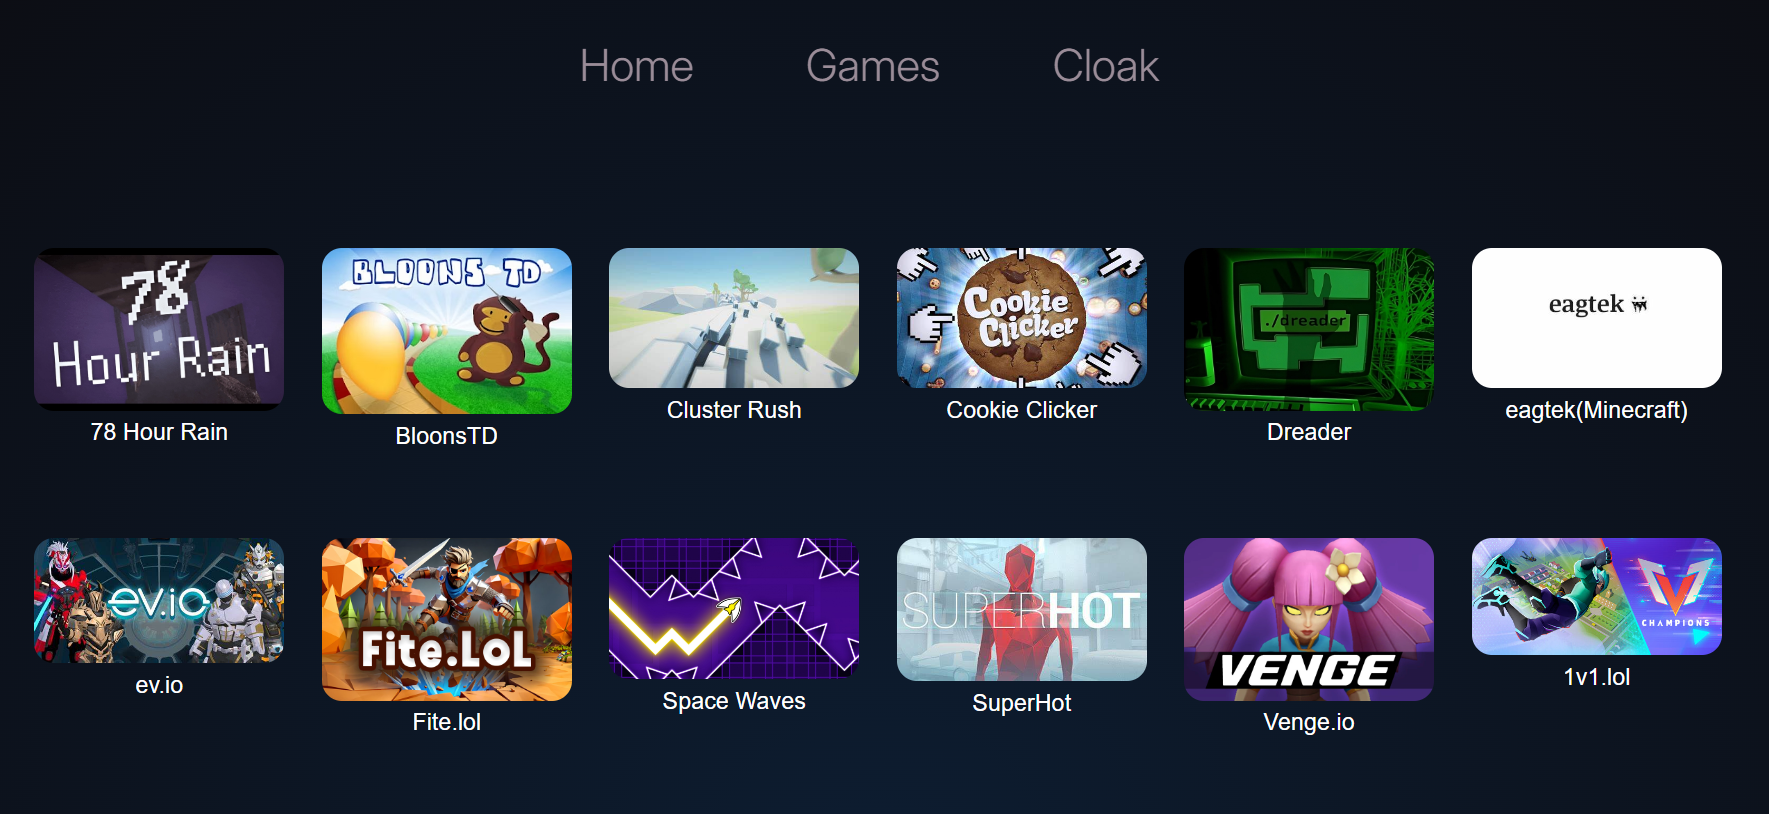
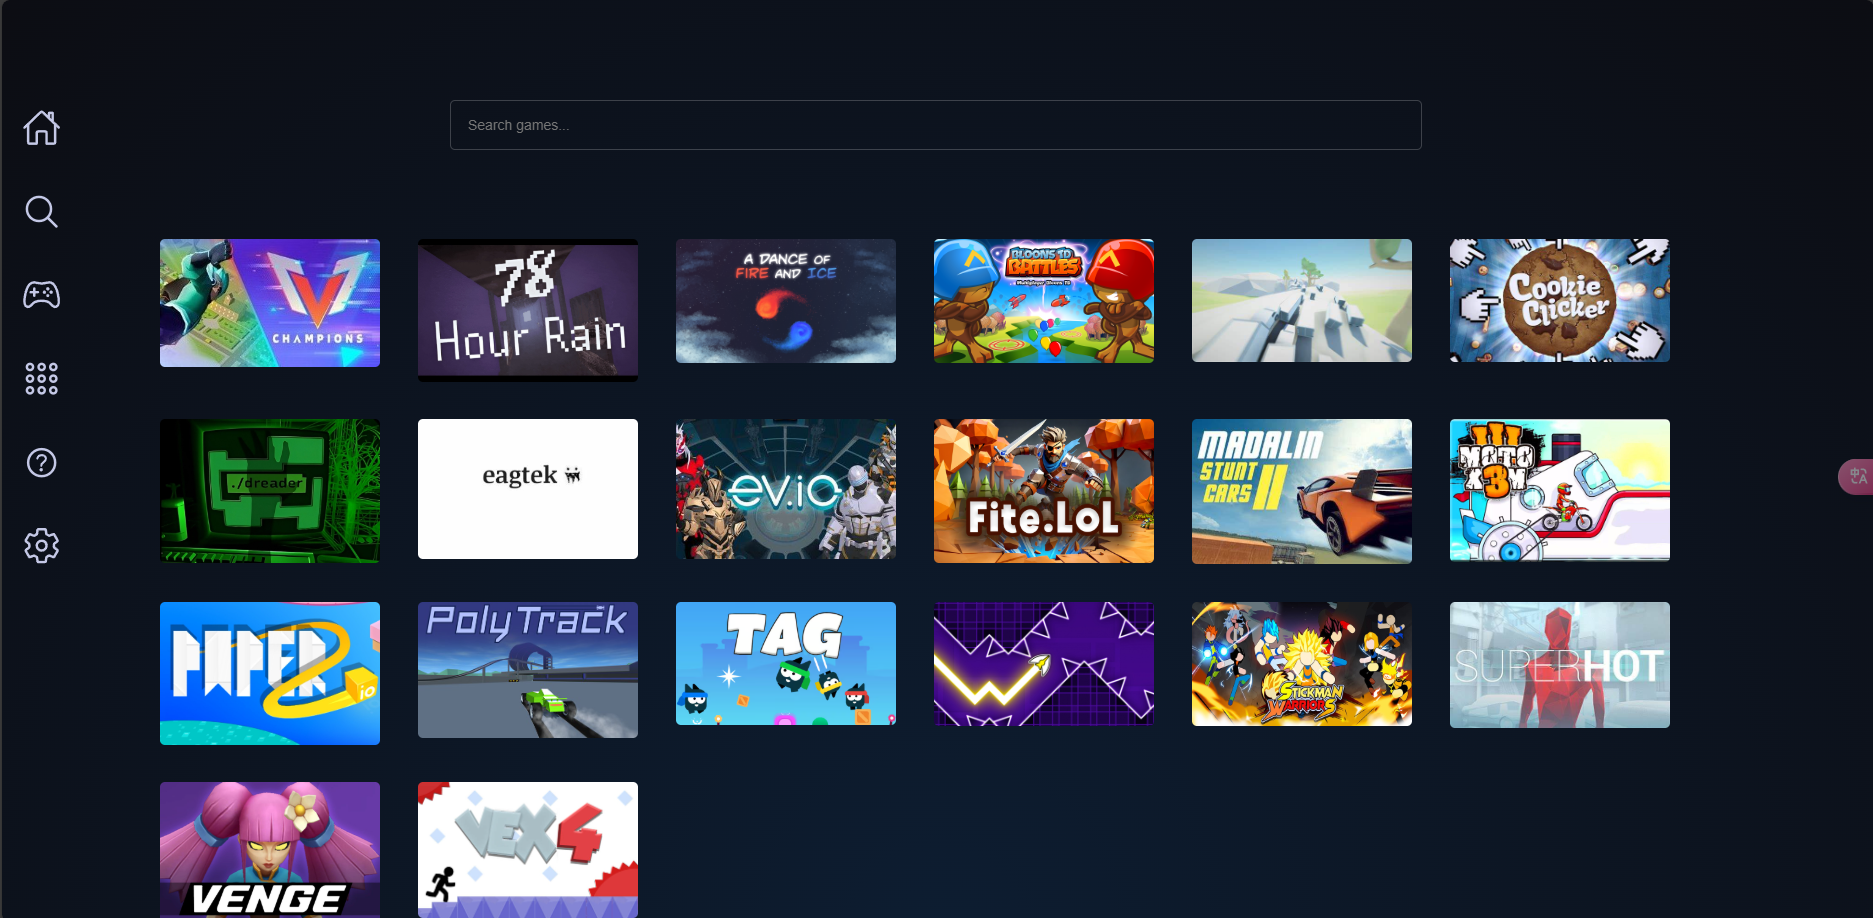
fix games

diff --git a/public/assets/styles/games.css b/public/assets/styles/games.css
@@ -59,59 +59,24 @@ body::-webkit-scrollbar {
   animation-fill-mode: forwards;
   margin-left: 16vw;
   animation-fill-mode: forwards;
-  height: 40px;
-  width: 50%;
-  border-radius: 30px;
+  padding: 0px 17px;
+  border: 1px solid rgb(255, 255, 255, 0.2);
   padding: 5px;
-  border: 1px solid #ccc;
   border-radius: 5px;
   font-size: 14px;
   height: 48px;
   width: 50%;
   background: none;
-  padding: 0px 17px;
-  border: 1px solid rgb(255, 255, 255, 0.2);
   outline: none;
   color: #fff;
 }
-.cursor {
-  z-index: 1000;
-  opacity: 0;
-  pointer-events: none;
-  border-radius: 0.25em;
-  padding: 0.3em 0.75em 0.4em;
-  font-size: 1.15em;
-  line-height: 1.5;
-  transition: opacity 0.2s;
-  position: fixed;
-  inset: 0% auto auto 0%;
-}
-
-.cursor p {
-  margin: 0px;
-}
-
-body:has([data-cursor]:hover) .cursor {
-  opacity: 1;
-}
-p {
-  font-size: 1.5em;
-  padding: 0.25vw;
-  margin: 0;
-  font-family: "Poppins", sans-serif;
-  font-weight: 400;
-  font-style: normal;
-  color: rgb(255, 255, 255);
-  text-shadow: 1px 1px 5px rgba(0, 0, 0, 0.7);
-}
-
 .games {
   padding-left: 8vw;
   padding-right: 7vw;
   margin-top: -85vh;
   display: flex;
   flex-wrap: wrap;
-  gap: 2vw;
+  gap: 1.3vw;
 }
 
 .game {
@@ -121,12 +86,13 @@ p {
   align-items: center;
   transition: all 0.2s ease-in-out;
   cursor: pointer;
-  width: 14%;
+  width: 15%;
   display: flex;
   flex-direction: column;
 }
 .game:hover {
-  transform: scale(1.1);
+  transform: scale(1.05);
+  text-shadow: 1px 1px 5px rgba(0, 0, 0, 0.7);
 }
 
 .game img {
@@ -135,13 +101,28 @@ p {
   width: 100%;
   height: auto;
   object-fit: contain;
-  border-radius: 5px;
+  border-radius: 3px;
 }
 .card img:hover {
   transform: scale(1.05);
   transition: transform 0.3s ease;
 }
 .game h3 {
+  z-index: 1;
+  margin-top: -3.5vh;
+  font-size: 2.7vh;
+  padding: 0.25vw;
+  font-family: "Poppins", sans-serif;
+  font-weight: 400;
+  font-style: normal;
+  color: #ffffff;
+  text-shadow: 1px 1px 10px #d8bfd8;
   opacity: 0;
-  font-size: 0;
+  transition-duration: 0.2s;
+}
+.game:hover h3 {
+  opacity: 1;
+}
+.game:hover img {
+  filter: brightness(0.8);
 }

diff --git a/public/assets/js/apps.js b/public/assets/js/apps.js
@@ -8,7 +8,7 @@ fetch("/assets/json/apps.json")
       gameElement.className = "game";
 
       gameElement.innerHTML = `
-                <img src="/img/${game.image}" alt="${game.name}" class="cards" data-cursor="${game.name}">
+                <img src="/img/${game.image}" alt="${game.name}" class="cards">
                         <h3>${game.name}</h3>
 
       `;
@@ -52,13 +52,4 @@ fetch("/assets/json/apps.json")
       }
     });
   });
-        function fixstuff() {
-            if (!sessionStorage.getItem('reloaded')) {
-                sessionStorage.setItem('reloaded', 'true');
-                location.reload();
-            } else {
-                sessionStorage.removeItem('reloaded');
-            }
-        }
-        window.onload = fixstuff;
-        window.addEventListener('pageshow', fixstuff);
+   

diff --git a/public/assets/js/games.js b/public/assets/js/games.js
@@ -8,7 +8,7 @@ fetch("/assets/json/games.json")
       gameElement.className = "game";
 
       gameElement.innerHTML = `
-                <img src="/img/${game.image}" alt="${game.name}" class="cards" data-cursor="${game.name}">
+                <img src="/img/${game.image}" alt="${game.name}" class="cards" >
                         <h3>${game.name}</h3>
 
       `;
@@ -52,13 +52,3 @@ fetch("/assets/json/games.json")
       }
     });
   });
-        function fixstuff() {
-            if (!sessionStorage.getItem('reloaded')) {
-                sessionStorage.setItem('reloaded', 'true');
-                location.reload();
-            } else {
-                sessionStorage.removeItem('reloaded');
-            }
-        }
-        window.onload = fixstuff;
-        window.addEventListener('pageshow', fixstuff);

diff --git a/public/app.html b/public/app.html
@@ -69,7 +69,6 @@
     </div>
     <section class="cloneable">
       <div class="games"></div>
-      <div class="cursor">
         <p></p>
       </div>
     </section>

diff --git a/public/game.html b/public/game.html
@@ -69,7 +69,6 @@
     </div>
     <section class="cloneable">
       <div class="games"></div>
-      <div class="cursor">
         <p></p>
       </div>
     </section>
